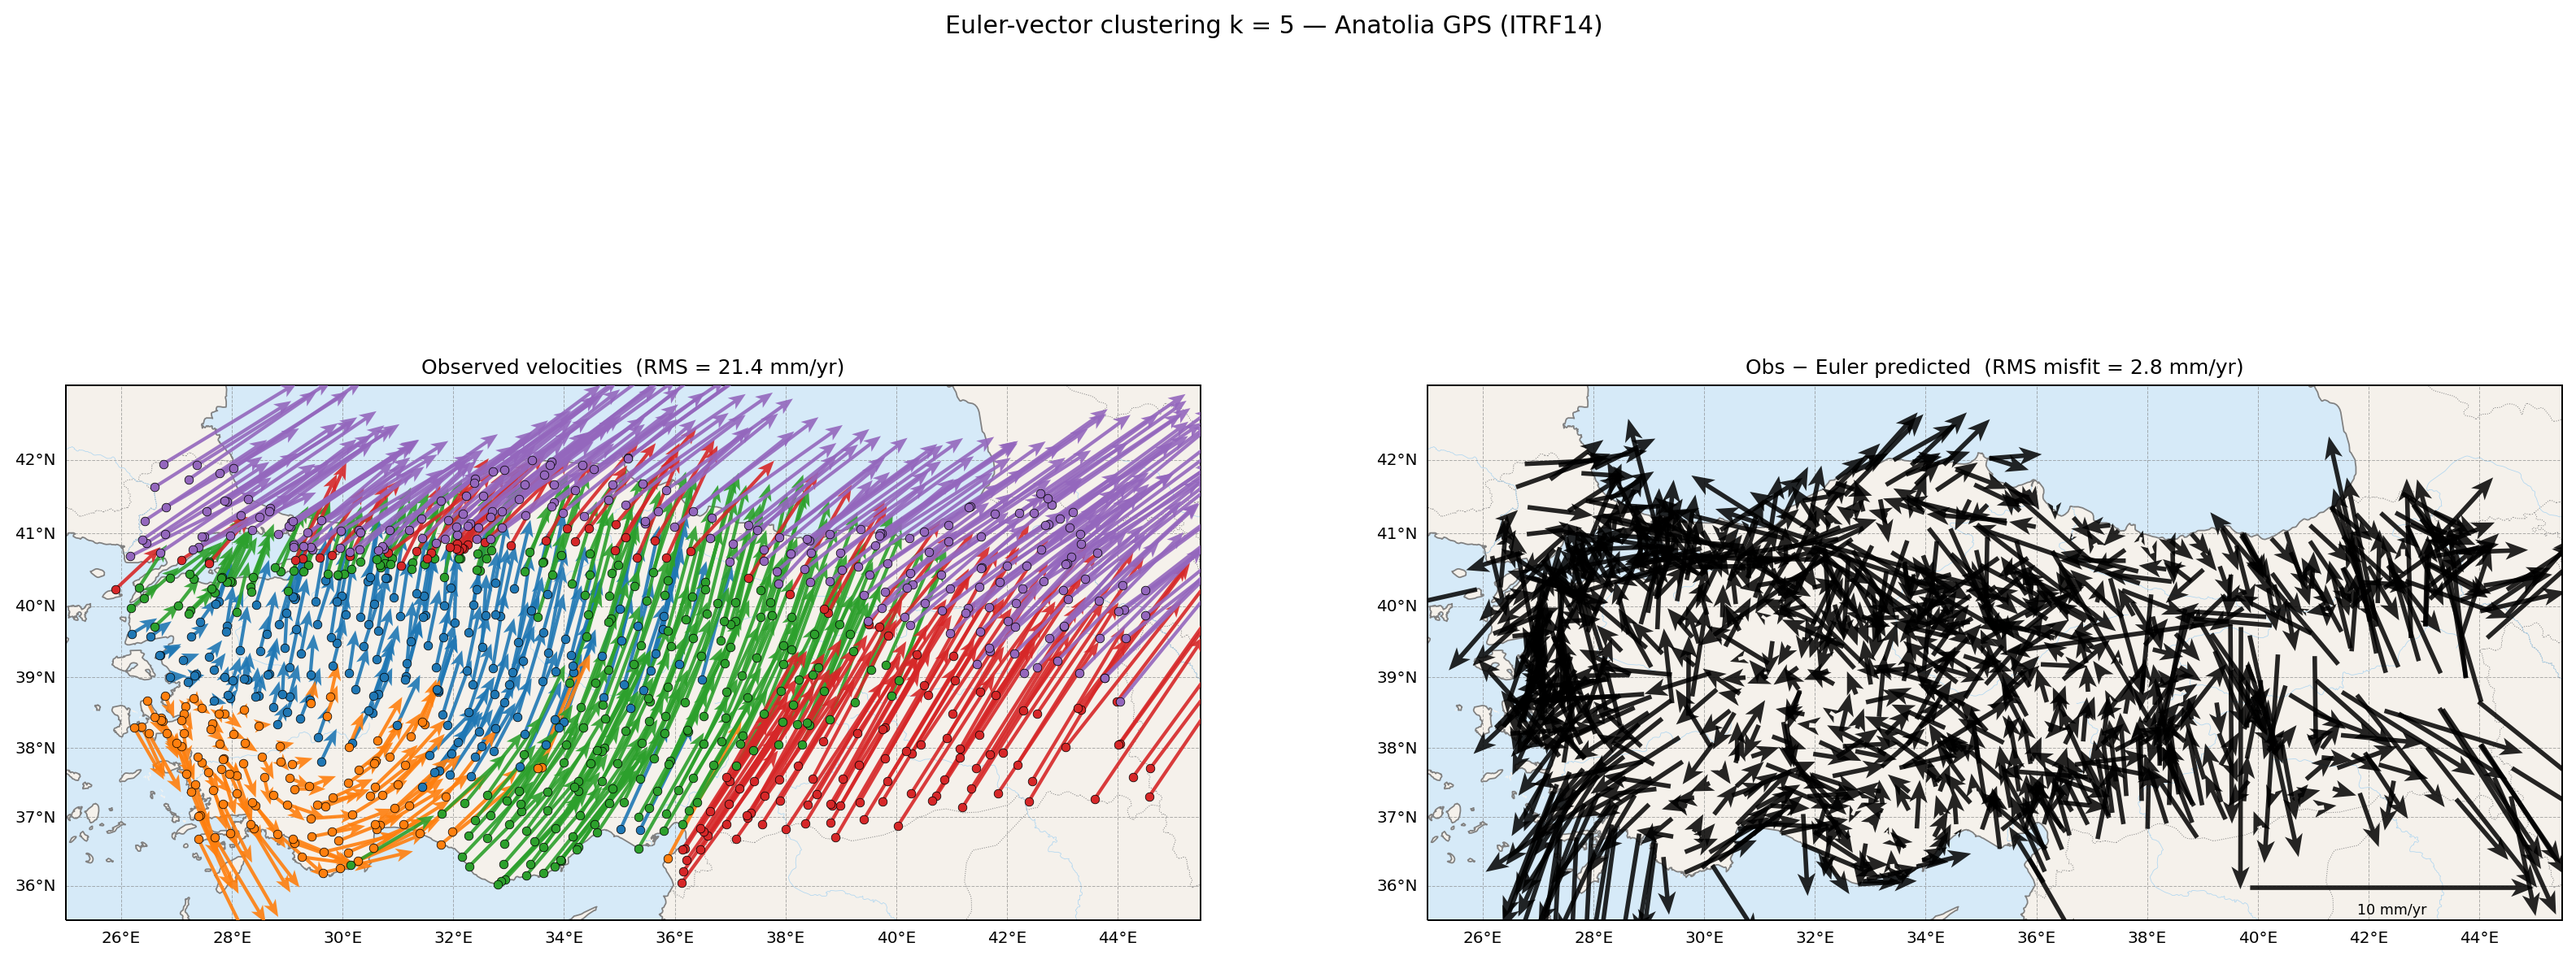
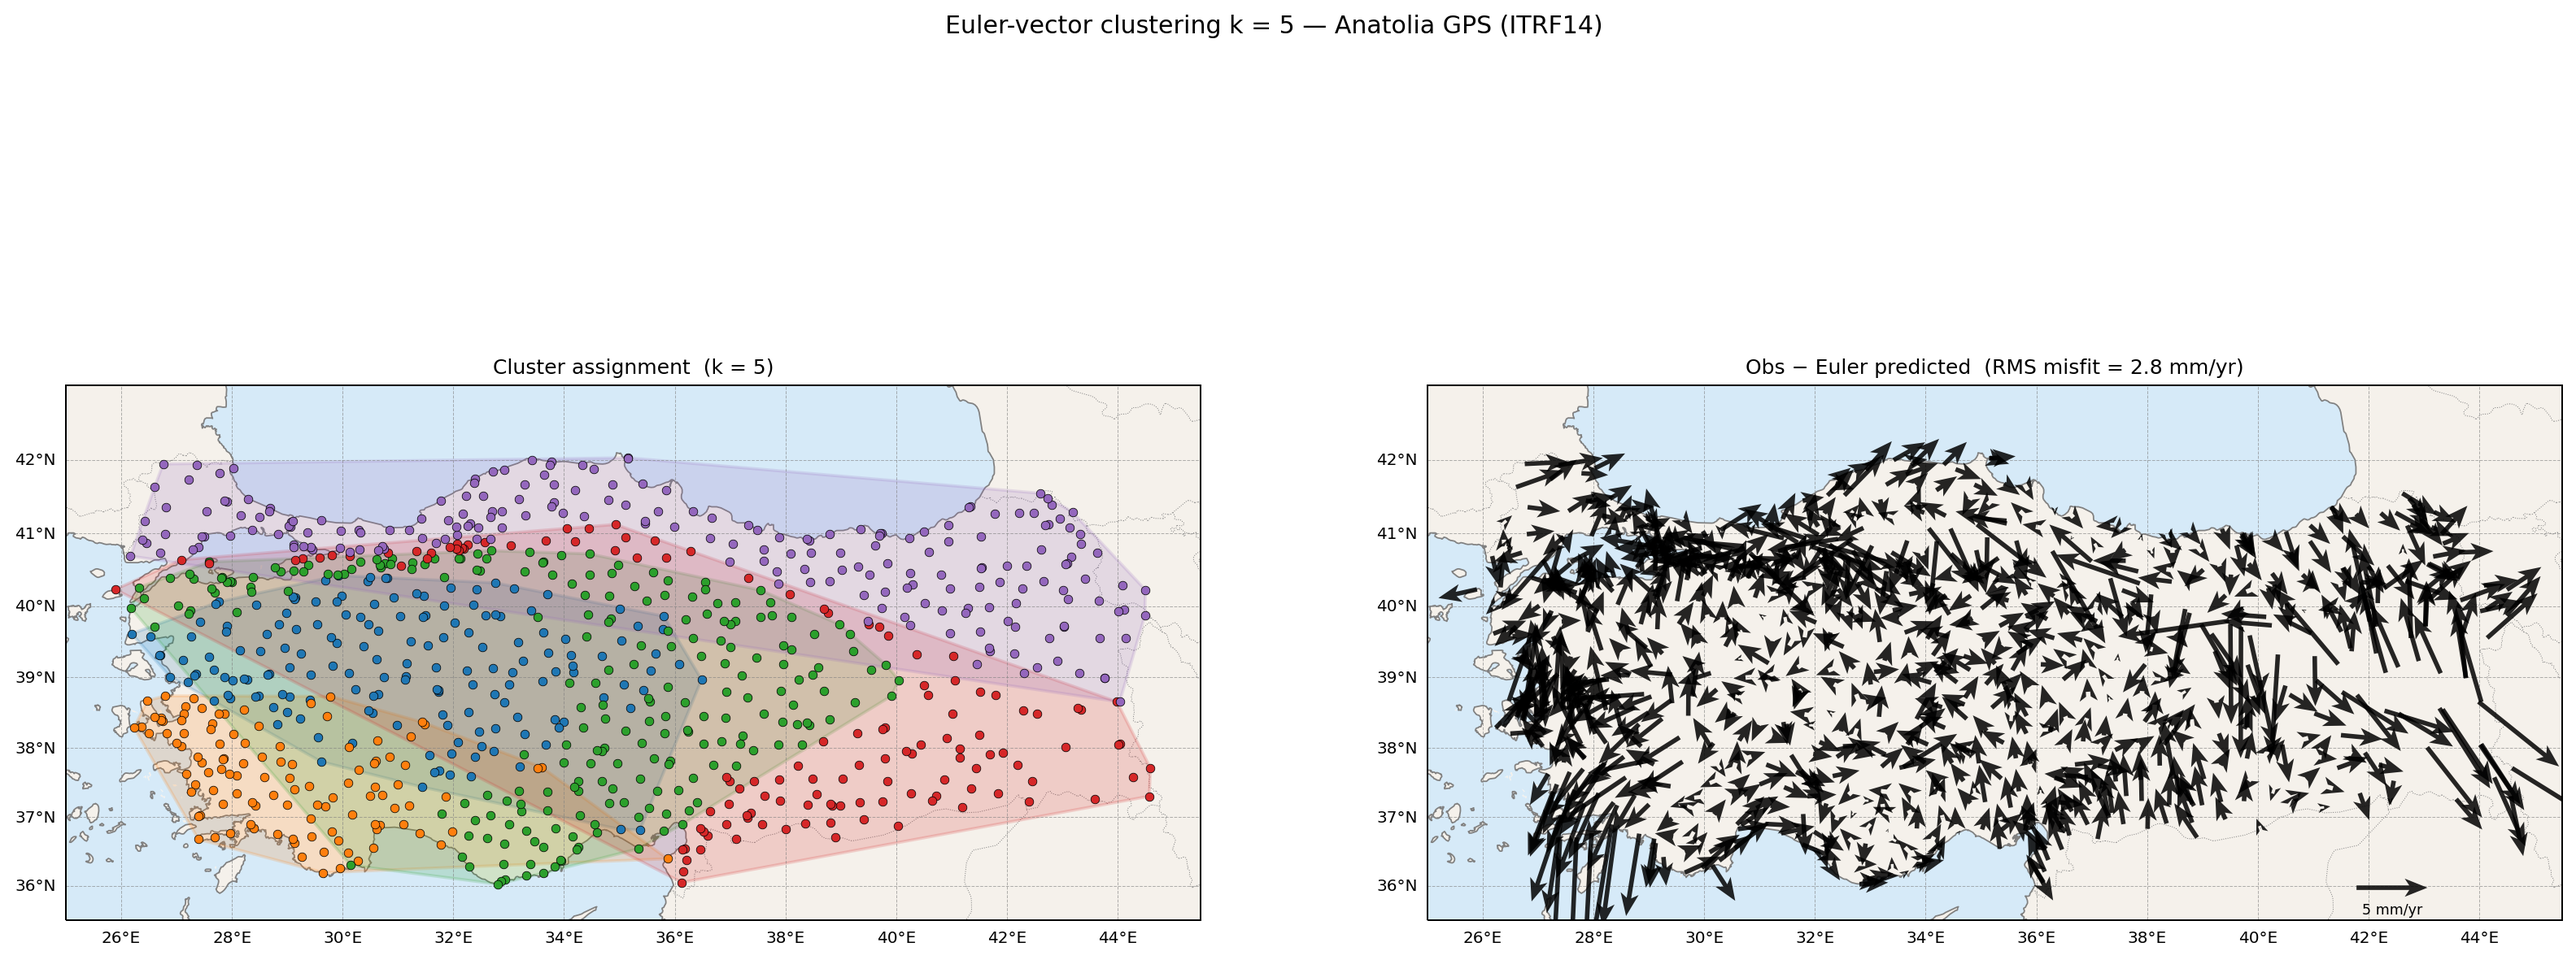
Fig 6: replace arrows with cluster hulls on left panel, halve residual scale
Left panel: drop velocity arrows and reference bar; draw convex-hull cluster
boundaries (filled + outlined polygon) so spatial extent of each block is
immediately visible without noise from overlapping vectors.

Right panel: scale 40→80 (half arrow length per mm/yr), quiverkey 10→5 mm/yr
so fine-scale residual patterns become readable.

Changed region(s): [[0.0309, 0.3658, 0.4642, 0.945], [0.557, 0.4268, 1.0, 0.9754]]

diff --git a/scripts/plot_anatolia_clusters.py b/scripts/plot_anatolia_clusters.py
@@ -27,6 +27,7 @@ import matplotlib.ticker as mticker
 import numpy as np
 from matplotlib.lines import Line2D
 from scipy.cluster.hierarchy import dendrogram, linkage
+from scipy.spatial import ConvexHull
 
 from gps_cluster.application.euler_clustering import EulerVectorClustering
 from gps_cluster.application.preprocess import preprocess
@@ -135,6 +136,23 @@ def _pole_marker(ax, pole, color, label=""):
         ax.text(pole.lon + 0.15, pole.lat + 0.1, label,
                 transform=ccrs.PlateCarree(), fontsize=7,
                 color=color, fontweight="bold", zorder=7)
+
+
+def _cluster_hull(ax, cluster_stations, color, alpha=0.18):
+    """Draw convex hull of cluster station positions as a shaded polygon."""
+    if len(cluster_stations) < 3:
+        return
+    pts = np.array([[s.position.lon, s.position.lat] for s in cluster_stations])
+    try:
+        hull = ConvexHull(pts)
+    except Exception:
+        return
+    hull_pts = pts[hull.vertices]
+    poly = plt.Polygon(hull_pts, closed=True,
+                       transform=ccrs.PlateCarree(),
+                       facecolor=color, alpha=alpha,
+                       edgecolor=color, linewidth=1.5, zorder=2)
+    ax.add_patch(poly)
 
 
 def _rms(clusters_list):
@@ -309,44 +327,39 @@ _basemap(axes[0])
 _basemap(axes[1])
 
 res_lons, res_lats, res_dve, res_dvn = [], [], [], []
-rms_obs_sq = []
 for c in clusters_best:
     if c.euler_vector is None:
         continue
     col = CMAP(c.id - 1)
+    _cluster_hull(axes[0], c.stations, color=col)
     _scatter(axes[0], c.stations, color=col, s=18)
-    _quiver(axes[0], c.stations, color=col)
     for s in c.stations:
         ve_p, vn_p = predict_velocity(s, c.euler_vector)
         res_lons.append(s.position.lon)
         res_lats.append(s.position.lat)
         res_dve.append(s.velocity.ve - ve_p)
         res_dvn.append(s.velocity.vn - vn_p)
-        rms_obs_sq.append(s.velocity.ve ** 2 + s.velocity.vn ** 2)
 
 res_lons = np.array(res_lons)
 res_lats = np.array(res_lats)
 res_dve  = np.array(res_dve)
 res_dvn  = np.array(res_dvn)
-rms_obs  = np.sqrt(np.mean(rms_obs_sq))
 rms_res  = np.sqrt(np.mean(res_dve ** 2 + res_dvn ** 2))
 
 q_res = axes[1].quiver(
     res_lons, res_lats, res_dve, res_dvn,
     transform=ccrs.PlateCarree(),
-    scale=40, scale_units="width",
+    scale=80, scale_units="width",
     angles="uv",
     width=0.004, headwidth=4, headlength=5, headaxislength=4,
     minlength=0, minshaft=0.5,
     color="k", alpha=0.85, zorder=4,
 )
-axes[1].quiverkey(q_res, X=0.85, Y=0.06, U=10,
-                  label="10 mm/yr", labelpos="S",
+axes[1].quiverkey(q_res, X=0.85, Y=0.06, U=5,
+                  label="5 mm/yr", labelpos="S",
                   fontproperties={"size": 7})
 
-_ref_arrow(axes[0], length=20)
-
-axes[0].set_title(f"Observed velocities  (RMS = {rms_obs:.1f} mm/yr)", fontsize=10)
+axes[0].set_title(f"Cluster assignment  (k = {k_gap})", fontsize=10)
 axes[1].set_title(f"Obs − Euler predicted  (RMS misfit = {rms_res:.1f} mm/yr)", fontsize=10)
 fig.suptitle(f"Euler-vector clustering k = {k_gap} — Anatolia GPS (ITRF14)",
              fontsize=12)
